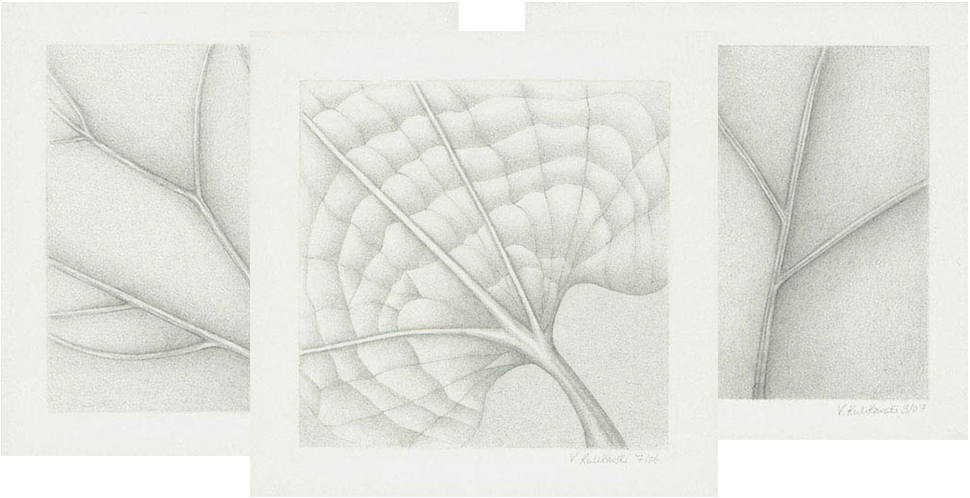
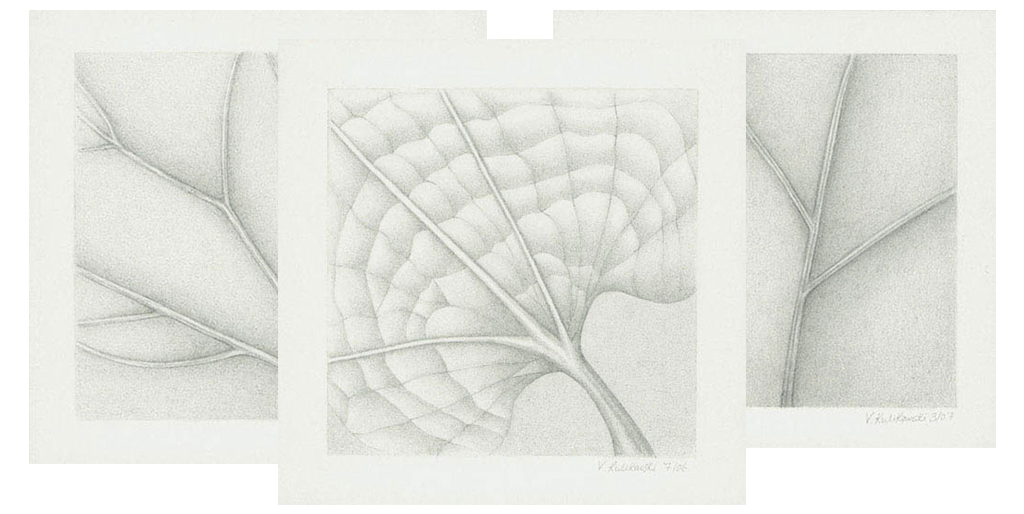
added footer image, got rid of lorum ipsum, fixed some of the sizing issues on conservation page

diff --git a/conservation.html b/conservation.html
@@ -58,7 +58,7 @@
         <div class="text-box">
           <div class="inner-text">
             <h2>Wildlife </h2>
-            <p>t is a long established fact that a reader will be distracted by the readable content of a page when looking at its layout. The point of using Lorem Ipsum is that it has a more-or-less normal distribution of letters, as opposed to using 'Content here, content here', making it look like readable English. Many desktop publishing packages and web page editors now use Lorem Ipsum as their default model text, and a search for 'lorem ipsum' will uncover many web sites still in their infancy. Various versions have evolved over the years, sometimes by accident, sometimes on purpose (injected humour and the like).</p>
+            <p>For years I've focused on planting native plants to support our region's pollinators. Every spring and fall I add new host plants for butterfly caterpillars as well as flowers to provide nectar for adult butterflies. Through my art and gardening I hope to educate and inspire suburban home owners to let their lawns go a little wild. Landscape crews that spray poison and use leaf blowers have contributed to the decline of our insect population. But if homeowners stopped some of these practices and planted one patch of flowers, maybe, just maybe we could learn some balance and share our gardens with wildlife again.</p>
           </div>
         </div>
       </div>
@@ -67,7 +67,7 @@
         <img class="" src="images/lbj-revised.jpg">
         <div class="text-box">
           <div class="inner-text">
-            <p>t is a long established fact that a reader will be distracted by the readable content of a page when looking at its layout. The point of using Lorem Ipsum is that it has a more-or-less normal distribution of letters, as opposed to using 'Content here, content here', making it look like readable English. Many desktop publishing packages and web page editors now use Lorem Ipsum as their default model text, and a search for 'lorem ipsum' will uncover many web sites still in their infancy. Various versions have evolved over the years, sometimes by accident, sometimes on purpose (injected humour and the like).</p>
+            <p>As a native plant gardener, Lady Bird Johnson is a hero to me. She worked to preserve natural beauty not only through legislation but also through her own personal efforts. In 2014 as an homage to her, I drove from Washington, D.C. to  Austin Texas following the route she regularly took while her husband was in office. Bluebonnet season was in full swing when I got there and I got to visit Lady Bird's lifetime of preservation efforts in her beloved Hill Country.</p>
           </div>
         </div>
       </div>
@@ -76,13 +76,14 @@
         <div class="text-box">
           <div class="inner-text">
             <h2>Citizen Science</h2>
-            <p>t is a long established fact that a reader will be distracted by the readable content of a page when looking at its layout. The point of using Lorem Ipsum is that it has a more-or-less normal distribution of letters, as opposed to using 'Content here, content here', making it look like readable English. Many desktop publishing packages and web page editors now use Lorem Ipsum as their default model text, and a search for 'lorem ipsum' will uncover many web sites still in their infancy. Various versions have evolved over the years, sometimes by accident, sometimes on purpose (injected humour and the like).</p>
+            <p>On a local level check out my Citizen Science Design Project. On a national level some big organizations that host citizen science projects include Audubon, Cornell Lab of Ornithology, and The Xerces Society. Many local groups host bird, bee and butterfly counts through their websites so check around. You may be surprised by how many opportunities you find.</p>
           </div>
         </div>
       </div>
     </div>
           <!-- FOOTER -->
       <footer>
+        <img src="images/blue.png">
         <p>&copy; 2017 Botanicals by Vicky
           <br>All rights reserved</p>
       </footer>

diff --git a/style.css b/style.css
@@ -37,6 +37,7 @@ a:hover {
   font-family: 'Poiret One', cursive;
   font-weight: bold;
   color:black;
+  margin-bottom:0px;
 }
 
 .navbar-default, .navbar-default .container-fluid {
@@ -95,7 +96,10 @@ a:hover {
 }
 
 
-
+#art footer, #conservation footer, #interaction footer {
+  padding-top:50px;
+  padding-bottom:25px;
+}
 footer {
   bottom: 0;
   text-align: center;
@@ -432,7 +436,7 @@ and (orientation: landscape),
   background-color: rgba(255, 255, 255, .8);
 }
 
-#art .inner-text, #interaction .inner-text {
+#art .inner-text {
   padding: 15px;
 }
 
@@ -491,7 +495,7 @@ footer img {
 ----------------------------*/
 
 #interaction .ux-title {
-  padding:50px;
+  padding:10px;
   color:#9cb625;
 }
 
@@ -501,6 +505,9 @@ footer img {
   height:auto;
 }
 
+#interaction .inner-text {
+  padding: 50px;
+}
 #interaction .text-box {
   background-color: rgba(255, 255, 255, .8);
   margin:0px 50px;
@@ -510,21 +517,20 @@ footer img {
   padding:100px;
 }
 
+
 #interaction .tail {
   position: absolute;
   top:0;
   right:0;
   margin-top: -125px;
-
   width:350px;
   height:auto;
 
 }
 #interaction .section:nth-child(2) {
-    padding: 100px 0px;
   background-image:  url("images/user-testing.jpg");
   background-repeat: no-repeat;
-  background-position: top left;
+  background-position: top right;
   background-size: cover;
   padding:150px 0px;
 }
@@ -542,11 +548,46 @@ footer img {
 #interaction .section:nth-child(6) {
   background-color: #d3e7b4;
 }
-.img-responsive {
+#interaction .img-responsive {
   width:100%;
   height:auto;
 }
 
+
+@media (max-width:992px){
+  #interaction .section .container {
+    padding:50px;
+  }
+  #interaction .tail {
+    width:200px;
+    margin-top:-75px;
+  }
+}
+@media (max-width:767px){
+  #interaction .section:nth-child(2) .container {
+    padding:15px;
+
+  }
+  #interaction .section:nth-child(2) {
+    padding:75px 0px;
+  }
+  #interaction .tail {
+    width:150px;
+    margin-top:-50px;
+  }
+}
+@media (max-width:600px){
+  #interaction .inner-text {
+    padding:25px;
+  }
+  #interaction .text-box {
+    margin:0px;
+  }
+  #interaction .section:nth-child(2) {
+    padding:25px 0px;
+  }
+
+}
 
 /* RESPONSIVE CSS
 -------------------------------------------------- */

diff --git a/art.html b/art.html
@@ -101,6 +101,7 @@ Church, Demarest, NJ.
     </div>
 
       <footer>
+        <img src="images/blue.png">
         <p>&copy; 2017 Botanicals by Vicky
           <br>All rights reserved</p>
       </footer>
